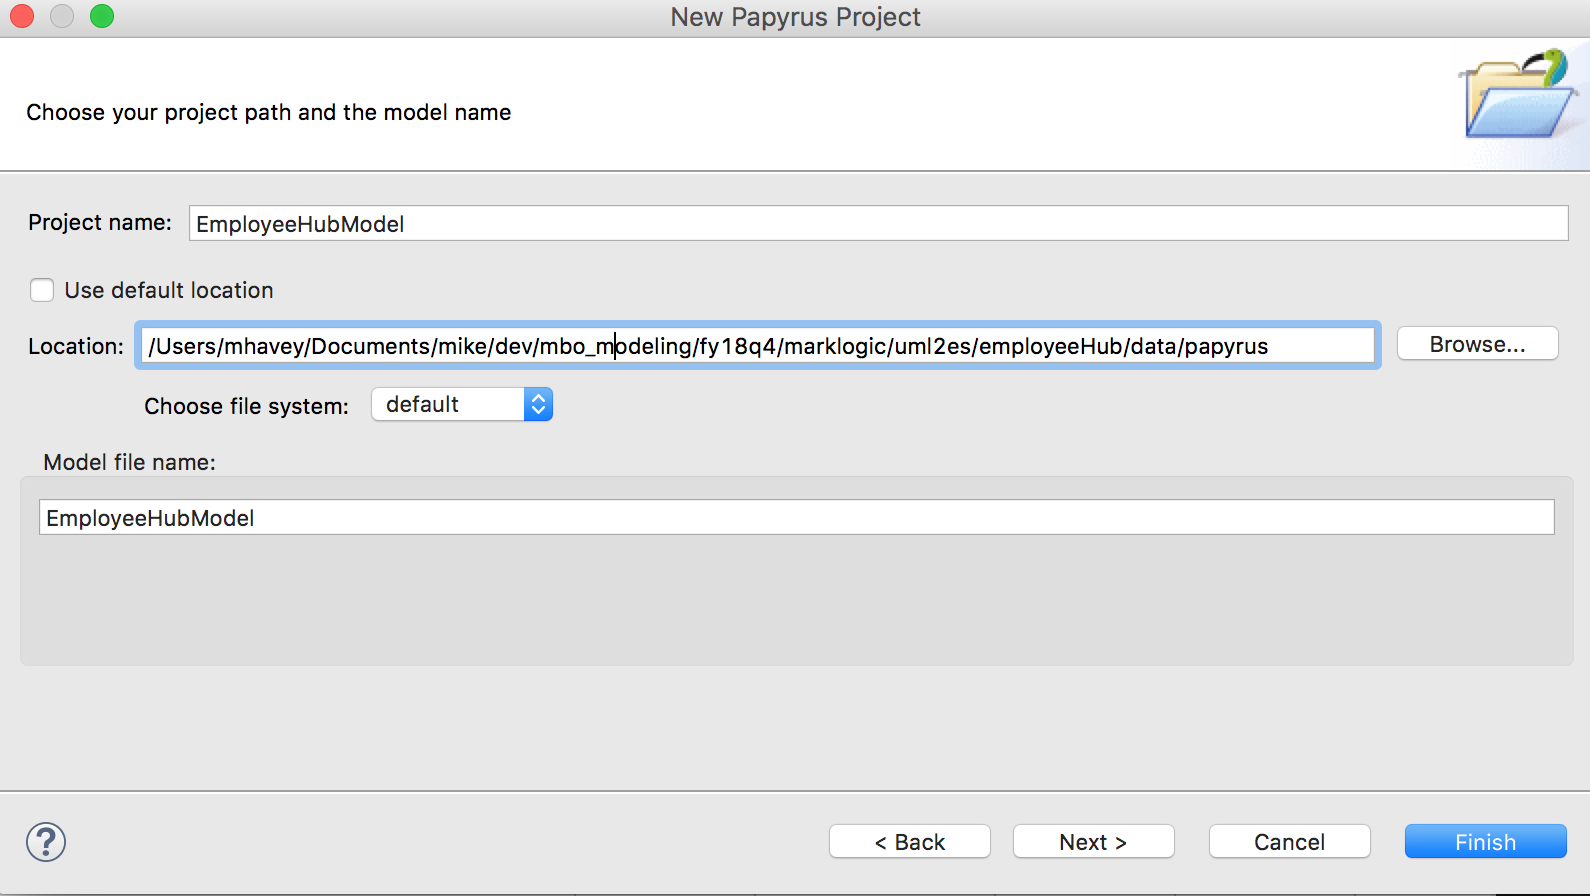
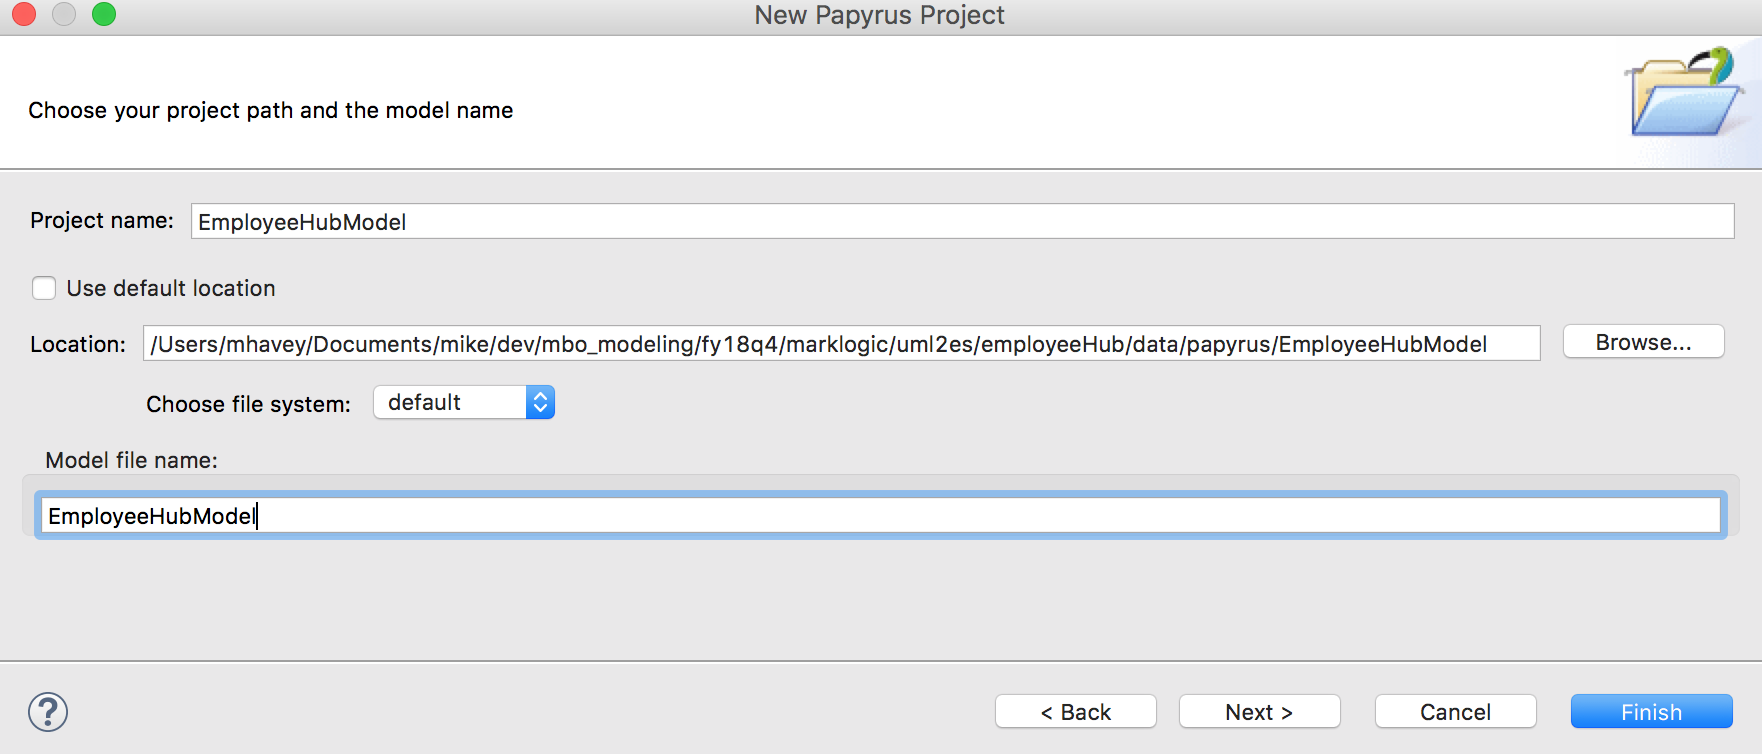
tutorial

diff --git a/uml2es/tutorials/employeeCradleToGrave.md b/uml2es/tutorials/employeeCradleToGrave.md
@@ -39,9 +39,9 @@ Copy into employeeHub/src/main/ml-modules/root the UML2ES transform code [../uml
 
 Copy into the main folder employeeHub the UML2ES build file [../uml2esTransform/uml2es4dhf.gradle](../uml2esTransform/uml2es4dhf.gradle).
 
-Copy into employeeHub/data/papyrus the UML2ES profile [../umlProfile/eclipse/MLProfileProject](../umlProfile/eclipse/MLProfileProject). You did it right if you cn see the file employeeHub/data/papyrus/MLProfileProject/MLProfile.profile.uml. If you don't see the file in exactly that location, remove what you copied and try again at the correct level. 
+Copy into employeeHub/data/papyrus the UML2ES profile [../umlProfile/eclipse/MLProfileProject](../umlProfile/eclipse/MLProfileProject). You did it right if you can see the file employeeHub/data/papyrus/MLProfileProject/MLProfile.profile.uml. If you don't see the file in exactly that location, remove what you copied and try again at the correct level. 
 
-Copy into the main folder employeeHub your initial build file [employeeHubLab/step1/build.gradle](employeeHubLab/step1/build.gradle) and your initial gradle properties file [employeeHubLab/step1/gradle.properties](employeeHubLab/step1/gradle.properties). Tweak the gradle.properties once you've copied it over. TODO ...
+Copy into the main folder employeeHub your initial build file [employeeHubLab/step1/build.gradle](employeeHubLab/step1/build.gradle) and your initial gradle properties file [employeeHubLab/step1/gradle.properties](employeeHubLab/step1/gradle.properties). Tweak the gradle.properties once you've copied it over. For example, modify mlHost if you're ML server is not running on localhost; modify mlUsername and mlPassword if your admin username/password is not admin/admin.
 
 When you are done, you should have the following folder structure:
 
@@ -59,7 +59,7 @@ Finally, let's create an instance of the data hub. In the command prompt, run th
 
 gradle -i mlDeploy
 
-When this has completed, you should see in your MarkLogic environment several new databases, including xmi2es-tutorials-STAGING, xmi2es-tutorials-FINAL, and xmi2es-tutorials-MODULES. Check in admin console you have these.
+When this has completed, you should see in your MarkLogic environment several new databases, including xmi2es-tutorials-empHub-STAGING, xmi2es-tutorials-empHub-FINAL, and xmi2es-tutorials-empHub-MODULES. Check in admin console you have these.
 
 ![Step 2 - folder structure](images/emp_setup2.png)
 </p>
@@ -70,7 +70,7 @@ When this has completed, you should see in your MarkLogic environment several ne
 <details><summary>Click to view/hide this section</summary>
 <p>
 
-Next you get to play the role of data architect. You will use the UML modeling tool Papyrus to design a class model for employees. The file containing your model resides in the employeeHub folder the build person (performed convincingly by you) created in Step 1. 
+Next you get to play the role of data architect. You will use the UML modeling tool Papyrus to design a class model for employees. The file containing your model resides in the employeeHub folder that the build person (performed convincingly by you) created in Step 1. 
 
 ### Step 2a: Setup Workspace and Projects
 
@@ -94,7 +94,7 @@ Click Next. In the Diagram Language window, select UML.
 
 ![New project in Papyrus](images/pap_model_uml.png)
 
-Click Next. In the next window enter the project name as EmployeeHubModel. Select the model file name as EmployeeHubModel. For the location, uncheck "Use default location". For location, browse to the employeeHub/data/papyrus folder you created in Step 1.
+Click Next. In the next window enter the project name as EmployeeHubModel. Select the model file name as EmployeeHubModel. For the location, uncheck "Use default location". For location, browse to the employeeHub/data/papyrus folder you created in Step 1. To this path append EmployeeHubModel.
 
 ![New project in Papyrus](images/emp_setup4.png)
 
@@ -120,11 +120,11 @@ Next, configure model-level attributes. In the diagram, click anywhere on the wh
 
 ![HRModel](images/emp_setup10.png)
 
-Still in the Properties pane, move to the Profile section and scroll down to the Applied Stereotypes. Click on the + symbol. In the popup window, Under Applicable Stereotypes select esModel. 
+Still in the Properties pane, move to the Profile section and scroll down to the Applied Stereotypes. Click on the + symbol. In the popup window, under Applicable Stereotypes select esModel. 
 
 ![HRModel Profile](images/emp_setup11.png) 
 
-Move them over to the Applied Stereotypes section by clicking the button with an arrow that points right. When done click OK to close the popup.
+Move it over to the Applied Stereotypes section by clicking the button with an arrow that points right. When done click OK to close the popup.
 
 ![HRModel Profile](images/emp_setup12.png) 
 
@@ -200,7 +200,7 @@ Now switch to the HRMainClassDiagram by double-clicking it in the Model Explorer
 
 Add the following attributes to Employee:
 
-- employeeId, type: integer, multiplicity: 1
+- employeeId, type: string, multiplicity: 1
 - firstName, type: string, multiplicity: 1
 - lastName, type: string, multiplicity: 1
 - status, type: string, multiplicity: 1
@@ -233,7 +233,7 @@ Next to do is the reportsTo relationship between employees. Draw an association 
 
 ![reportsTo](images/emp_setup25.png)
 
-Now let's bring into this diagram the Address, Phone, and Email classes from our HRCommon package. In Model Explorer, under HRCommon select Address and draw it into the current diagram. Do the same with Phone and Email.
+Now let's bring into this diagram the Address, Phone, and Email classes from our HRCommon package. In Model Explorer, under HRCommon select Address and drag it into the current diagram. Do the same with Phone and Email.
 
 ![common](images/emp_setup26.png)
 
@@ -286,7 +286,7 @@ Next, stereotype several of the attributes by first selecting the atttibute in t
 	* $attribute(employeeId)
 	* ".json"
 
-Your last step is to configure the memberOf and reportsTo relationships use reference rather than containment. In MarkLogic, you want Employee's memberOf attribute to contain the primary key of the Department rather than a copy of the Department object itself. You want Employee's reportsTo attribute to contain the primary key of the other Employee rather than a copy of the other Employee object itself. (The relationships from Department and Employee to Address, Phone, and Type, on the other hand, will be containment, not reference.)
+Your last step is to configure the memberOf and reportsTo relationships to use reference rather than containment. In MarkLogic, you want Employee's memberOf attribute to contain the primary key of the Department rather than a copy of the Department object itself. You want Employee's reportsTo attribute to contain the primary key of the other Employee rather than a copy of the other Employee object itself. (The relationships from Department and Employee to Address, Phone, and Type, on the other hand, will be containment, not reference.)
 
 To make the memberOf attribute referential, in the diagram, select the Employee class. In the Properties pane, go to the UML section. Under Owned Attribute, select memberOf. Double-click it. In the Edit Property popup, switch to the Profile tab. Click the + button. Move from Applicable Stereotypes to Applied Stereotypes the FK stereotype.
 
@@ -315,21 +315,56 @@ If you think you might have messed up along the way, a pre-cooked model is avail
 
 <details><summary>Click to view/hide this section</summary>
 <p>
-Next is a quick verification that the UML model can be dpeloyed to MarkLogic as part of the build process. This gives the data architect the assurance that the model "works in ML." It gives the developer a first look at the model and how it is represented in ML. It gives the build person knowledge of the steps to deploy the UML model to ML.
+Next is a quick verification that the UML model can be deployed to MarkLogic as part of the build process. This gives the data architect the assurance that the model "works in ML." It gives the developer a first look at the model and how it is represented in ML. It gives the build person knowledge of the steps to deploy the UML model to ML.
 
 We won't have any actual DHF code when this step completes. That comes later. But we will have proved that our UML model can be transformed to Entity Services. And with that assurance, we're off and running with ES-based development.
 
-First, the build person modifies the build.gradle and gradle.properties files. 
+First, the build person modifies the build.gradle and gradle.properties files created in Step 1. Put on your build person hat and make the following edits:
 
-- To build.gradle, the build person adds the following code:
+- To build.gradle, add the following code at the end:
 
+task prepHRModel(type: Copy) {
+    from "data/papyrus/EmployeeHubModel/EmployeeHubModel.uml"
+    into "data/model"
+    rename '(.*).uml', '$1.xml'
+}
 
+task runUML2ESDeploy(type: GradleBuild) {
+  buildFile = "uml2es4dhf.gradle"
+  tasks = ["uDeployModel"]
+}
 
-- To gradle.properties, the build person adds:
+task deployHRModel() {
+  dependsOn "prepHRModel"
+  dependsOn "runUML2ESDeploy"
+  tasks.findByName('runUML2ESDeploy').mustRunAfter 'prepHRModel'
+}
+
+- To gradle.properties, add the following line at the end:
 
 modelName=EmployeeHubModel
 
 If you're not sure you did this correctly, look at pre-cooked files [employeeHubLab/step3/build.gradle](employeeHubLab/step3/build.gradle) and [employeeHubLab/step3/gradle.properties](employeeHubLab/step3/gradle.properties). 
+
+To transform the UML model to Entity Services and deploy it to MarkLogic, you, still in the role of build person, runs the following from the command line in the gradle project folder you created in Step 1.
+
+gradle -i deployHRModel
+
+That command should run successfully. You should see "BUILD SUCCESSFUL" when its completes. To check what it did, go into the Query Console and navigate to the xmi2es-tutorials-empHub-FINAL database. Click on Explore. Among the documents created are the following:
+
+- /marklogic.com/entity-services/models/EmployeeHubModel.json (The deployed ES model. We'll come back to this in a moment.)
+- /xmi2es/extension/EmployeeHubModel.ttl (Semantic triples that extend our ES model)
+- /xmi2es/gen/EmployeeHubModel/lib.xqy (Initial generated code from the model. We'll come back to this in a moment.)
+- /xmi2es/findings/EmployeeHubModel.xml (Problems found during transformation. Stop and open this up. Check to make sure it reports no issues.)
+- /xmi2es/xmi/EmployeeHubModel.xml (The original UML model as an XMI document)
+
+- In Query Console, open a tab of type SPARQL, point to the final DB, run the following query, and verify you get any results. This means the ES model is in FINAL and its semantic metadata is populated.
+
+select * where {?s ?o ?p}
+
+Among the results, you should see the following:
+- <http://com.marklogic.es.uml.hr/HR-0.0.1/Employee> <http://marklogic.com/entity-services#property> http://com.marklogic.es.uml.hr/HR-0.0.1/Employee/emails> from basic ES model
+- <http://com.marklogic.es.uml.hr/HR-0.0.1/Employee/memberOf> <http://marklogic.com/xmi2es/xes#relationship>  "association" from the extended ES model
 
 
 </p>

diff --git a/uml2es/tutorials/README.md b/uml2es/tutorials/README.md
@@ -10,4 +10,4 @@ A few tools tutorials:
 
 [How to edit the profile in Papyrus](papyrus_profile_edit.md)
 
-[Employee Hub Cradle To Grave - Mo](employeeCradleToGrave.md)
+[Employee Hub Cradle To Grave](employeeCradleToGrave.md)
